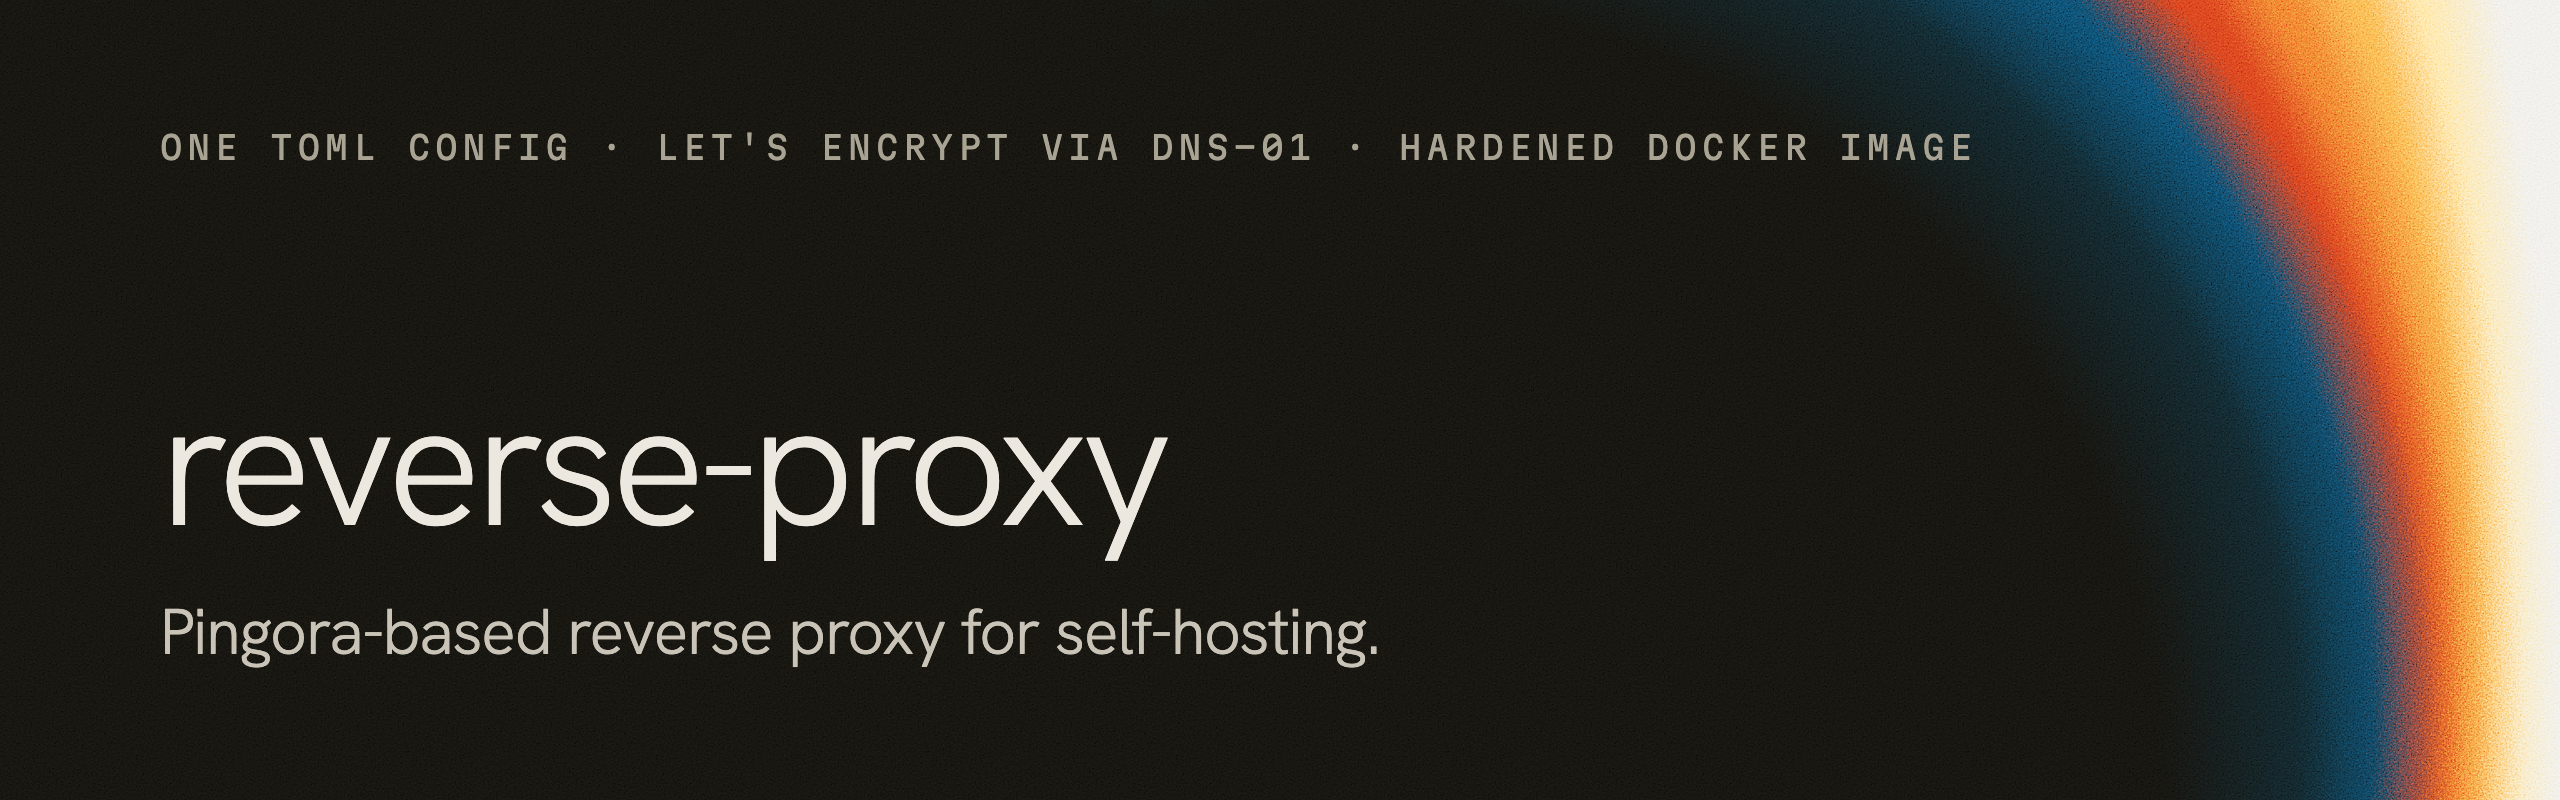
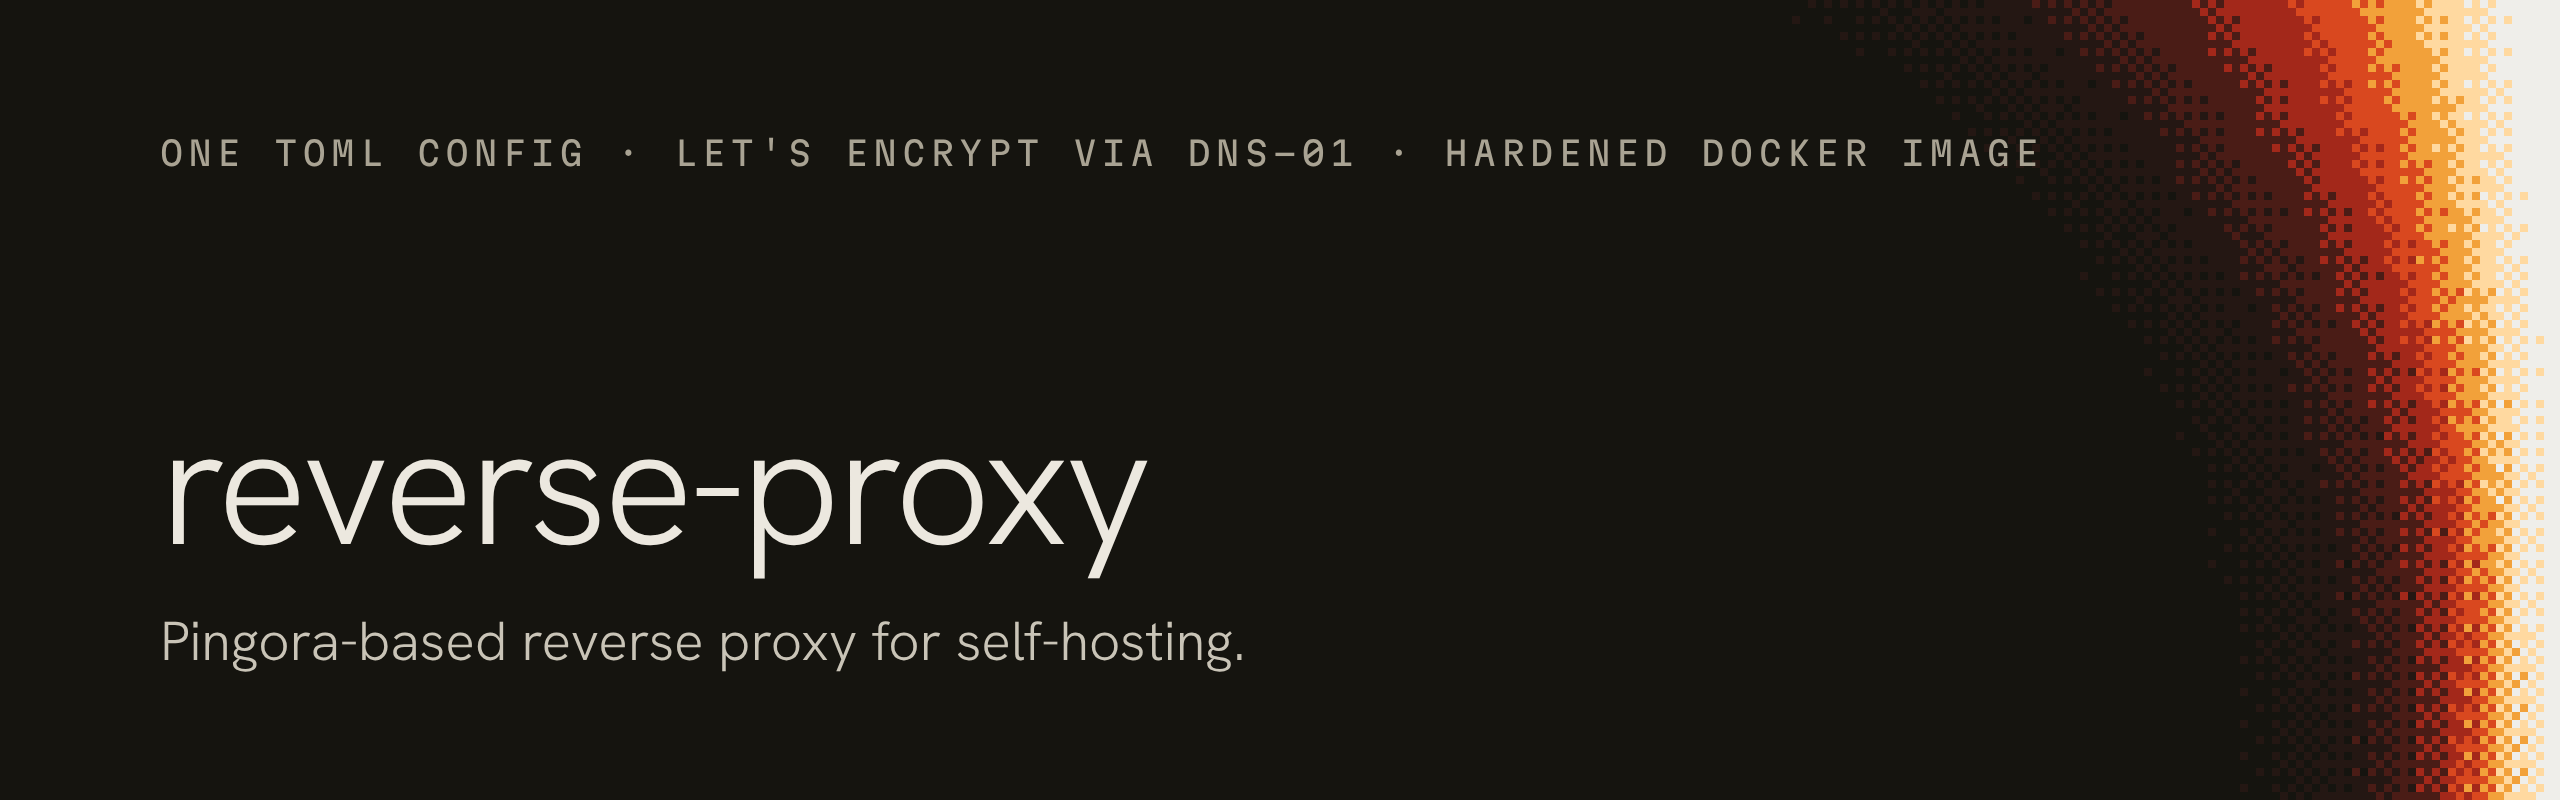
fix wording in readme and banenr style

Changed region(s): [[0.0625, 0.0, 1.0, 1.0], [0.0625, 0.5312, 0.4688, 0.7188], [0.0625, 0.75, 0.5312, 0.8438]]

diff --git a/README.md b/README.md
@@ -1,6 +1,6 @@
 # reverse-proxy
 
-A single-binary reverse proxy for self-hosting. One TOML file declares your routes; it handles TLS termination and forwarding from there. Built on [Pingora](https://github.com/cloudflare/pingora) + BoringSSL, ships as a hardened container image (non-root, read-only rootfs, no shell).
+A single-binary reverse proxy for self-hosting. You declare your routes in one TOML file, and the proxy handles TLS termination and forwarding from there. It's built on [Pingora](https://github.com/cloudflare/pingora) + BoringSSL and ships as a hardened container image (non-root, read-only rootfs, no shell).
 
 <p align="center"><img src="reverse-proxy.png" alt="" /></p>
 
@@ -8,7 +8,7 @@ A single-binary reverse proxy for self-hosting. One TOML file declares your rout
 
 `nginxproxy/nginx-proxy` was my go-to for a while, and it does the job. What I never liked is that every container needs a `VIRTUAL_HOST` label and has to share a network with the proxy. That always felt a bit wrong to me.
 
-A lot has changed since then. Building your own proxy is doable now, though it comes with its own challenges, so I built this one on a proven stack. The core idea: keep it simple for self-hosted projects, and still get a legit Let's Encrypt certificate for a box the internet can't reach. Point `vault.example.com` at a LAN IP in your own DNS, and you get proper HTTPS on your home network.
+A lot has changed since then. Building your own proxy is doable now. It still has its challenges, so I built this one on a proven stack. The idea is to keep it simple for self-hosted projects and still get a legit Let's Encrypt certificate for a box the internet can't reach. Point `vault.example.com` at a LAN IP in your own DNS, and you get proper HTTPS on your home network.
 
 The code is written by hand, no AI. I want to keep my Rust skills sharp, and I still enjoy writing code.
 
@@ -19,16 +19,16 @@ The code is written by hand, no AI. I want to keep my Rust skills sharp, and I s
 - Routing by `Host` header (`:authority` on HTTP/2) from a single TOML file
 - `X-Forwarded-For` and `X-Forwarded-Proto` set on every upstream request
 - Self-signed certs generated on boot for `self_signed` routes
-- 301 redirect from HTTP → HTTPS for any route that has a cert
-- Full ACME / Let's Encrypt: a renewal loop (hourly, every 2 minutes while an order is pending) that orders a cert, writes the DNS TXT record via Cloudflare API, and hot-swaps it in without a restart
+- 301 redirect from HTTP to HTTPS for any route that has a cert
+- Full ACME / Let's Encrypt: a renewal loop orders a cert, writes the DNS TXT record via the Cloudflare API, and hot-swaps the cert in without a restart. It runs hourly, and every 2 minutes while an order is pending.
 - Hardened container image: non-root, read-only rootfs, all capabilities dropped, no shell
 - Multi-arch images (amd64, arm64) on Docker Hub and GHCR per release
 
 ## Quick start
 
-Two things: a `config.toml` and a compose file.
+You need two files: a `config.toml` and a compose file.
 
-The image is `maxvanderschee/reverse-proxy` on Docker Hub, `ghcr.io/mvdschee/reverse-proxy` on GHCR. Multi-arch per release tag, plus `latest`.
+The image is `maxvanderschee/reverse-proxy` on Docker Hub and `ghcr.io/mvdschee/reverse-proxy` on GHCR. Every release tag is multi-arch, and so is `latest`.
 
 **`config.toml`**
 
@@ -92,7 +92,7 @@ volumes:
    proxy-certs:
 ```
 
-`docker compose up -d`, point DNS at the box, done. Configured hosts get proxied; everything else gets a `421 Misdirected Request`.
+Run `docker compose up -d`, point DNS at the box, and you're done. Configured hosts get proxied. Everything else gets a `421 Misdirected Request`.
 
 ## Config
 
@@ -104,18 +104,18 @@ An `[acme]` table and a list of `[[routes]]`. Full annotated schema: [`example/e
 | `routes[].host`         | yes      | The `Host` header to match, e.g. `app.example.com`.                                                                                                                       |
 | `routes[].upstream`     | yes      | `host:port` to forward to, over plain HTTP. `host.docker.internal:<port>` reaches apps on the Docker host.                                                                |
 | `routes[].cert_type`    | no       | `none` (HTTP only), `self_signed`, or `acme`. Defaults to `none`.                                                                                                         |
-| `routes[].dns_provider` | no       | Only for `acme` routes. Cloudflare only for now (`zone_id` + `api_token`, see [Cloudflare setup](#cloudflare-setup)). Routes without one are skipped by the renewal loop. |
+| `routes[].dns_provider` | no       | Only for `acme` routes. Cloudflare only for now (`zone_id` + `api_token`, see [Cloudflare setup](#cloudflare-setup)). The renewal loop skips routes without one.          |
 
 A couple of sharp edges:
 
 - `host` is an exact match on the hostname. Any port is ignored, so `app.example.com:8443` matches a route for `app.example.com`.
-- "TLS route" means `cert_type` ≠ `none`. Those get the 301 on the HTTP listener and are served on 443 with whatever's in `CERT_DIR` (`<host>.<cert_type>.pem` / `<host>.<cert_type>.key`, e.g. `app.example.com.acme.pem`). Each cert type has its own files, so switching a route's `cert_type` never reuses the other type's cert. Self-signed certs are regenerated on every boot; ACME certs come from the renewal loop (renews within 30 days of expiry).
+- A "TLS route" is any route with `cert_type` ≠ `none`. TLS routes get the 301 on the HTTP listener and are served on 443 with whatever's in `CERT_DIR`. The files are `<host>.<cert_type>.pem` and `<host>.<cert_type>.key`, e.g. `app.example.com.acme.pem`. Each cert type has its own files, so switching a route's `cert_type` never reuses the other type's cert. The proxy regenerates self-signed certs on every boot. ACME certs come from the renewal loop, which renews within 30 days of expiry.
 - The proxy boots even when cert files are missing. It logs a warning and serves what it can.
 - The cert is picked by SNI. The TLS handshake only succeeds when the client sends SNI and a cert for that host exists.
-- The first ACME cert takes a few minutes. Boot tick writes the TXT record, then a tick every 2 minutes finalizes once the record resolves. Until it lands the host is unreachable: HTTP still 301s to HTTPS, and HTTPS has nothing to serve yet.
+- The first ACME cert takes a few minutes. The boot tick writes the TXT record. After that, a tick every 2 minutes finalizes the order once the record resolves. Until the cert lands, the host is unreachable: HTTP still 301s to HTTPS, and HTTPS has nothing to serve yet.
 - It talks to Let's Encrypt production by default and agrees to their terms for you. Set `ACME_ENV=staging` while testing to stay clear of the production rate limits.
 - The ACME account is tied to the environment it was created in. Once `acme_account` exists, `ACME_ENV` is ignored. Delete `acme_account` to switch between staging and production.
-- `X-Forwarded-For` is the client's IP and `X-Forwarded-Proto` is `http` or `https`, depending on the listener. Both overwrite whatever the client sent, so the proxy is meant to be the first hop. The `Host` header is passed through unchanged, port included.
+- `X-Forwarded-For` is the client's IP and `X-Forwarded-Proto` is `http` or `https`, depending on the listener. Both overwrite whatever the client sent, so the proxy is meant to be the first hop. The proxy passes the `Host` header through unchanged, port included.
 
 ## Environment variables
 
@@ -125,7 +125,7 @@ A couple of sharp edges:
 | `CERT_DIR`    | `.certs/`      | `/var/lib/proxy/certs`   | Where certs and the ACME account file (`acme_account`) live. |
 | `HTTP_PORT`   | `80`           | `8080`                   | Port for the HTTP listener.                                  |
 | `HTTPS_PORT`  | `443`          | `8443`                   | Port for the HTTPS listener.                                 |
-| `ACME_ENV`    | `production`   | `production`             | `production` or `staging`. Other values get rejected         |
+| `ACME_ENV`    | `production`   | `production`             | `production` or `staging`. Other values get rejected.        |
 | `MIMALLOC_ALLOW_THP` | `1`     | `0`                      | `0` turns off transparent huge pages for the process. On hosts with THP set to `always`, they push idle RSS up by hundreds of MB. |
 
 The image bakes in the right-hand column (the Dockerfile sets every variable except `ACME_ENV`), so the compose file above doesn't repeat them. Listeners always bind `0.0.0.0`.
@@ -138,17 +138,17 @@ One build quirk: we cross-compile to `*-unknown-linux-musl` with `-crt-static` o
 
 Since this sits on the public internet:
 
-- **`read_only: true`** — the only writes are certs, and those go to the named volume. A compromised process can't touch its own binary or config.
-- **`cap_drop: ALL`** + **`no-new-privileges`** — no capabilities, no setuid escalation. If it gets owned, the blast radius is the process.
+- With `read_only: true`, the only writes are certs, and those go to the named volume. A compromised process can't touch its own binary or config.
+- `cap_drop: ALL` and `no-new-privileges` leave the process with no capabilities and no setuid escalation. If it gets owned, the blast radius is the process.
 
 ## How it works
 
 Implementation notes, for the curious:
 
-- `main()` is synchronous. Pingora has its own Tokio runtime; the binary loads config, sorts out certs, hands over to the server loop.
+- `main()` is synchronous. Pingora has its own Tokio runtime. The binary loads config, sorts out certs, and hands over to the server loop.
 - The cert store is a `HashMap<Host, (Cert, Key)>` behind an `ArcSwap`. The renewal loop swaps new certs in atomically, no restart.
-- ACME account credentials persist in `CERT_DIR/acme_account`. A restart reuses the account, doesn't re-register.
-- The renewal loop runs in two stages per host: first tick creates the order and writes the DNS-01 TXT record; later ticks (every 2 minutes while pending) wait until the TXT record resolves, then mark the challenge ready, finalize, swap the cert in. Dead orders get dropped and retried later. Pending orders live in memory, so a restart before it finalizes just starts a fresh order.
+- ACME account credentials persist in `CERT_DIR/acme_account`. A restart reuses the account and doesn't register again.
+- The renewal loop runs in two stages per host. The first tick creates the order and writes the DNS-01 TXT record. Later ticks (every 2 minutes while pending) wait until the TXT record resolves. Then they mark the challenge ready, finalize, and swap the cert in. The loop drops dead orders and retries later. Pending orders live in memory, so a restart before an order finalizes just starts a fresh one.
 
 ## Roadmap
 
@@ -157,36 +157,36 @@ Roughly in the order I'm doing them:
 1. Access logs and a proper logging story. Errors go to stdout for now.
 2. A test suite for the behavioural bits. Routing, redirects, cert handling, error paths.
 3. Benchmarks. Baseline numbers against nginx so I can judge changes by measurement instead of vibes.
-4. Idiomatic Rust. V1 was correctness-first; the internals get tidied up once the shape is stable.
+4. Idiomatic Rust. V1 was correctness-first. I'll tidy up the internals once the shape is stable.
 
 ## A note on AI
 
-I'm upfront about where I use AI. This one, the Rust is hand-written. What AI helped with:
+I'm upfront about where I use AI. In this project the Rust is hand-written. AI helped with:
 
-- Researching trade-offs (Pingora vs. the alternatives, BoringSSL vs. rustls, musl vs. glibc)
+- Researching trade-offs (Pingora vs. the alternatives, BoringSSL vs. rustls, musl vs. glibc).
 - Drafting and polishing text.
-- The Dockerfile. I have written enough of those. Didn't feel like doing it by hand again.
+- The Dockerfile. I have written enough of those and didn't feel like doing it by hand again.
 
 The code is mine. If you find a bug, that's on me.
 
 ## Contributing
 
 - **Open an issue first.** I'd rather talk through what you want and how before reviewing a PR that already fixes a problem.
-- **No AI-written code.** The Rust here is hand-written and I'd like it to stay that way. You can use AI to help you understand a change or clean up but I will be a bit sceptical if you have no Rust experience on your profile.
+- **No AI-written code.** The Rust here is hand-written and I'd like it to stay that way. You can use AI to help you understand a change or clean it up, but I will be a bit sceptical if you have no Rust experience on your profile.
 
 ## Cloudflare setup
 
 `acme` routes need two things from Cloudflare: the zone ID and an API token that can edit DNS in that zone.
 
-**Zone ID.** Domains → pick your domain → Overview. It's in the API section towards the bottom. The Account ID sits right next to it and looks the same, don't mix them up.
+**Zone ID.** Domains → pick your domain → Overview. It's in the API section towards the bottom. The Account ID sits right next to it and looks the same. Don't mix them up.
 
 **API token.**
 
 1. My Profile → API Tokens → Create Token.
 2. Use the "Edit zone DNS" template.
-3. Permissions: `Zone` → `DNS` → `Edit`. That's the only one needed: the proxy creates and updates records, and it calls `/zones/<zone_id>/dns_records` directly, so it needs `Edit` but not `Zone` → `Read`.
+3. Permissions: `Zone` → `DNS` → `Edit`. That's the only permission the proxy needs. It creates and updates records and calls `/zones/<zone_id>/dns_records` directly, so it needs `Edit` but not `Zone` → `Read`.
 4. Zone Resources: `Include` → `Specific zone` → your domain. Don't hand it all zones.
-5. Optional: Client IP Address Filtering to the box's public IP. If you set a TTL, renewals stop when it expires.
+5. Optional: Client IP Address Filtering to the box's public IP. If you give the token a TTL, renewals stop when it expires.
 6. Create, copy the token (you only see it once), put it in `api_token`.
 
 What the proxy does with it:
